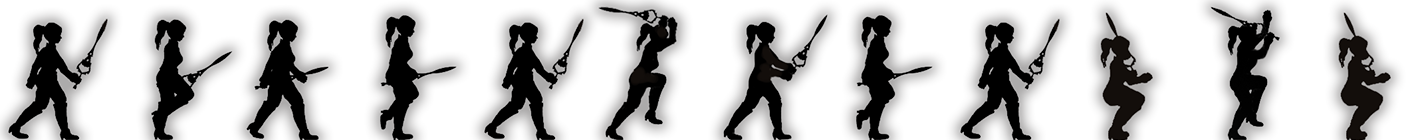
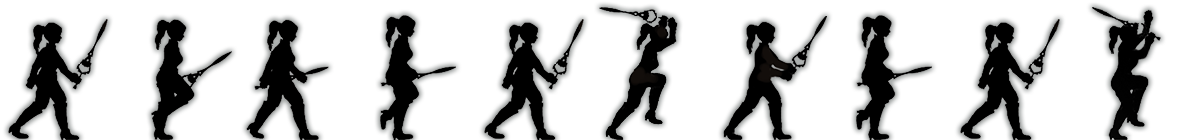
Animacion nueva de personaje

diff --git a/core/src/itesm/mx/whacamole/Personaje.java b/core/src/itesm/mx/whacamole/Personaje.java
@@ -50,7 +50,7 @@ public class Personaje
         animacionAtaque =    new Animation(0.25f,texturaPersonaje[0][4],
                 texturaPersonaje[0][5], texturaPersonaje[0][6],texturaPersonaje[0][7] );
         animacionSalto =    new Animation(0.25f,
-                texturaPersonaje[0][9], texturaPersonaje[0][10],texturaPersonaje[0][11] );
+                texturaPersonaje[0][8], texturaPersonaje[0][9]);
         animacionSalto.setPlayMode(Animation.PlayMode.LOOP);
         animacionAtaque.setPlayMode(Animation.PlayMode.LOOP);
         // Animación infinita
